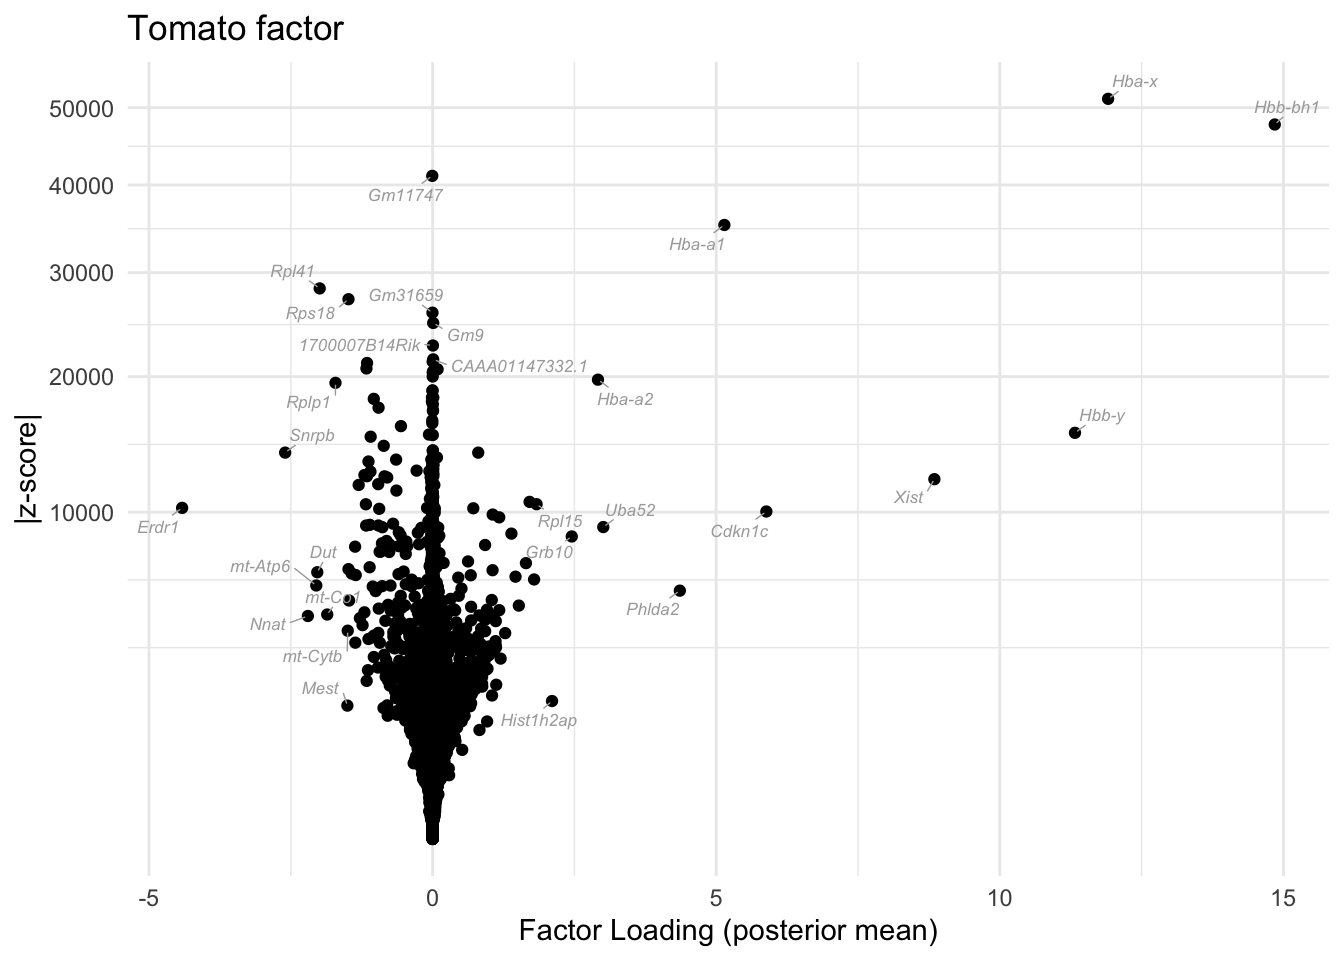
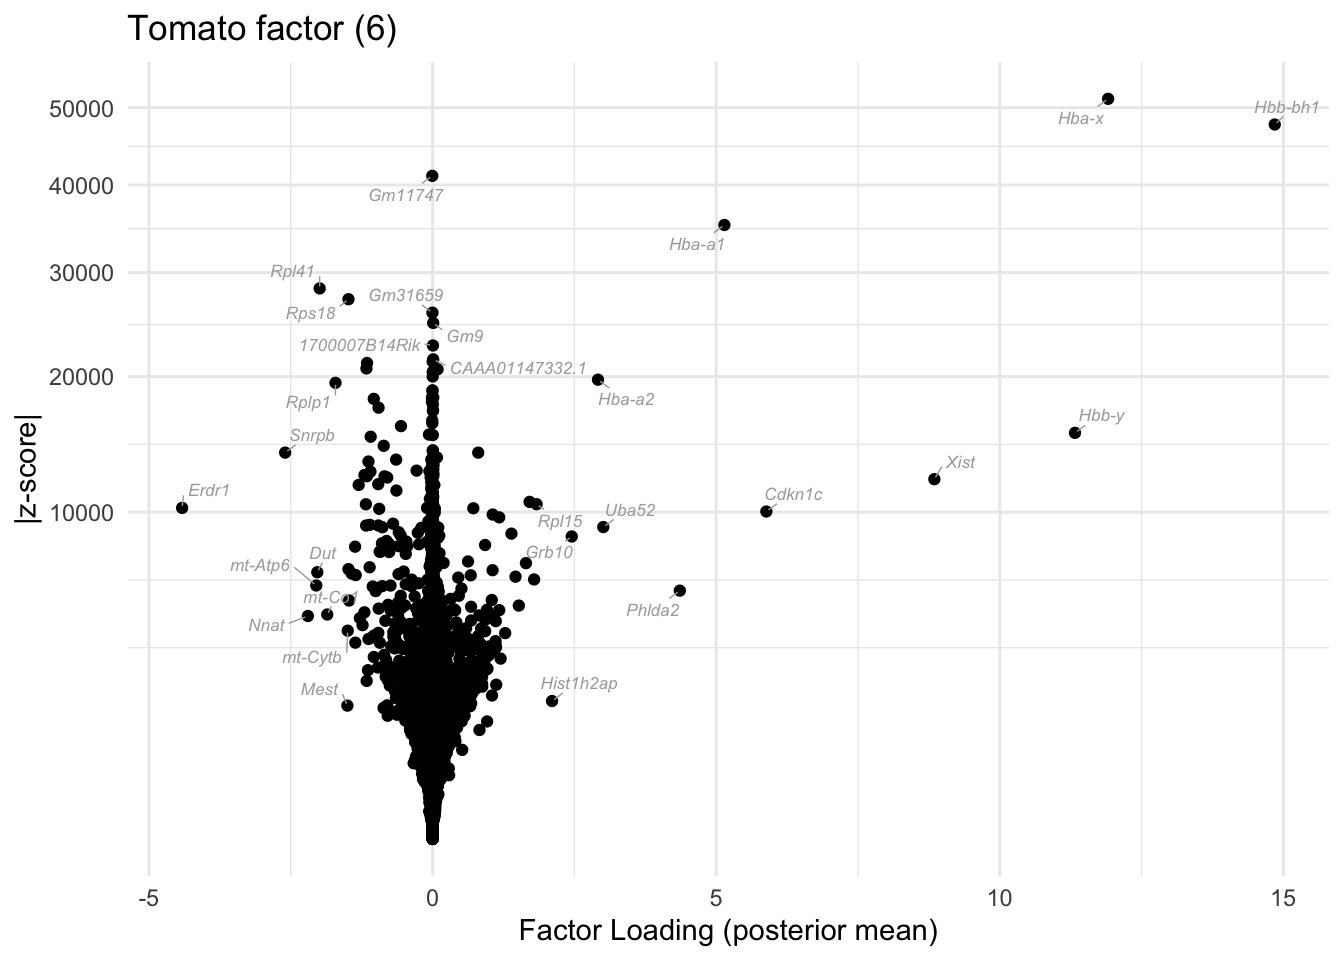
Build site.

diff --git a/docs/pijuan_snn.html b/docs/pijuan_snn.html
@@ -316,7 +316,7 @@ $(document).ready(function () {
 <div class="tab-content">
 <div id="summary" class="tab-pane fade in active">
 <p>
-<strong>Last updated:</strong> 2022-04-15
+<strong>Last updated:</strong> 2022-04-19
 </p>
 <p>
 <strong>Checks:</strong> <span class="glyphicon glyphicon-ok text-success" aria-hidden="true"></span> 7 <span class="glyphicon glyphicon-exclamation-sign text-danger" aria-hidden="true"></span> 0
@@ -407,16 +407,16 @@ This reproducible <a href="http://rmarkdown.rstudio.com">R Markdown</a> analysis
 <div class="panel panel-default">
 <div class="panel-heading">
 <p class="panel-title">
-<a data-toggle="collapse" data-parent="#workflowr-checks" href="#strongRepositoryversionstrongahrefhttpsgithubcomwillwerscheidscFLASHtree50e77728891ec2669f11996994e99ea54b996607targetblank50e7772a"> <span class="glyphicon glyphicon-ok text-success" aria-hidden="true"></span> <strong>Repository version:</strong> <a href="https://github.com/willwerscheid/scFLASH/tree/50e77728891ec2669f11996994e99ea54b996607" target="_blank">50e7772</a> </a>
+<a data-toggle="collapse" data-parent="#workflowr-checks" href="#strongRepositoryversionstrongahrefhttpsgithubcomwillwerscheidscFLASHtree54c2420e7bafda43daa4cd1e359ddbdf3f818644targetblank54c2420a"> <span class="glyphicon glyphicon-ok text-success" aria-hidden="true"></span> <strong>Repository version:</strong> <a href="https://github.com/willwerscheid/scFLASH/tree/54c2420e7bafda43daa4cd1e359ddbdf3f818644" target="_blank">54c2420</a> </a>
 </p>
 </div>
[2 lines of base64/hex data omitted]
 <div class="panel-body">
 <p>
 Great! You are using Git for version control. Tracking code development and connecting the code version to the results is critical for reproducibility.
 </p>
 <p>
-The results in this page were generated with repository version <a href="https://github.com/willwerscheid/scFLASH/tree/50e77728891ec2669f11996994e99ea54b996607" target="_blank">50e7772</a>. See the <em>Past versions</em> tab to see a history of the changes made to the R Markdown and HTML files.
+The results in this page were generated with repository version <a href="https://github.com/willwerscheid/scFLASH/tree/54c2420e7bafda43daa4cd1e359ddbdf3f818644" target="_blank">54c2420</a>. See the <em>Past versions</em> tab to see a history of the changes made to the R Markdown and HTML files.
 </p>
 <p>
 Note that you need to be careful to ensure that all relevant files for the analysis have been committed to Git prior to generating the results (you can use <code>wflow_publish</code> or <code>wflow_git_commit</code>). workflowr only checks the R Markdown file, but you know if there are other scripts or data files that it depends on. Below is the status of the Git repository when the results were generated:
@@ -446,6 +446,7 @@ Ignored files:
 Untracked files:
     Untracked:  analysis/NBapprox.Rmd
     Untracked:  analysis/final_pbmc.Rmd
+    Untracked:  analysis/pbmc_nn_nice.Rmd
     Untracked:  analysis/trachea4.Rmd
     Untracked:  code/alt_montoro/
     Untracked:  code/final_pbmc/
@@ -506,6 +507,40 @@ Message
 </tr>
 </thead>
 <tbody>
+<tr>
+<td>
+Rmd
+</td>
+<td>
+<a href="https://github.com/willwerscheid/scFLASH/blob/54c2420e7bafda43daa4cd1e359ddbdf3f818644/analysis/pijuan_snn.Rmd" target="_blank">54c2420</a>
+</td>
+<td>
+Jason Willwerscheid
+</td>
+<td>
+2022-04-19
+</td>
+<td>
+wflow_publish(“analysis/pijuan_snn.Rmd”)
+</td>
+</tr>
+<tr>
+<td>
+html
+</td>
+<td>
+<a href="https://rawcdn.githack.com/willwerscheid/scFLASH/47d1ea8ed129eede64d796587c0491c58b75c76f/docs/pijuan_snn.html" target="_blank">47d1ea8</a>
+</td>
+<td>
+Jason Willwerscheid
+</td>
+<td>
+2022-04-15
+</td>
+<td>
+Build site.
+</td>
+</tr>
 <tr>
 <td>
 Rmd
@@ -832,7 +867,7 @@ Jason Willwerscheid
   return(plt)
 }
 
-do.volcano.plot(res, k = 6, plt.title = &quot;Tomato factor&quot;)
+do.volcano.plot(res, k = 6, plt.title = &quot;Tomato factor (6)&quot;)
 #&gt; Rows: 29453 Columns: 2── Column specification ────────────────────────────────────────────────────────
 #&gt; Delimiter: &quot;\t&quot;
 #&gt; chr (2): X1, X2
@@ -887,6 +922,14 @@ Jason Willwerscheid
 </table>
 </div>
 </div>
+<pre class="r"><code>
+do.volcano.plot(res, k = 15, plt.title = &quot;Endothelial factor (15)&quot;)
+#&gt; Rows: 29453 Columns: 2── Column specification ────────────────────────────────────────────────────────
+#&gt; Delimiter: &quot;\t&quot;
+#&gt; chr (2): X1, X2
+#&gt; ℹ Use `spec()` to retrieve the full column specification for this data.
+#&gt; ℹ Specify the column types or set `show_col_types = FALSE` to quiet this message.</code></pre>
+<p><img src="figure/pijuan_snn.Rmd/volcano.code-2.png" width="672" style="display: block; margin: auto;" /></p>
 <br>
 <p>
 <button type="button" class="btn btn-default btn-workflowr btn-workflowr-sessioninfo" data-toggle="collapse" data-target="#workflowr-sessioninfo" style="display: block;">
